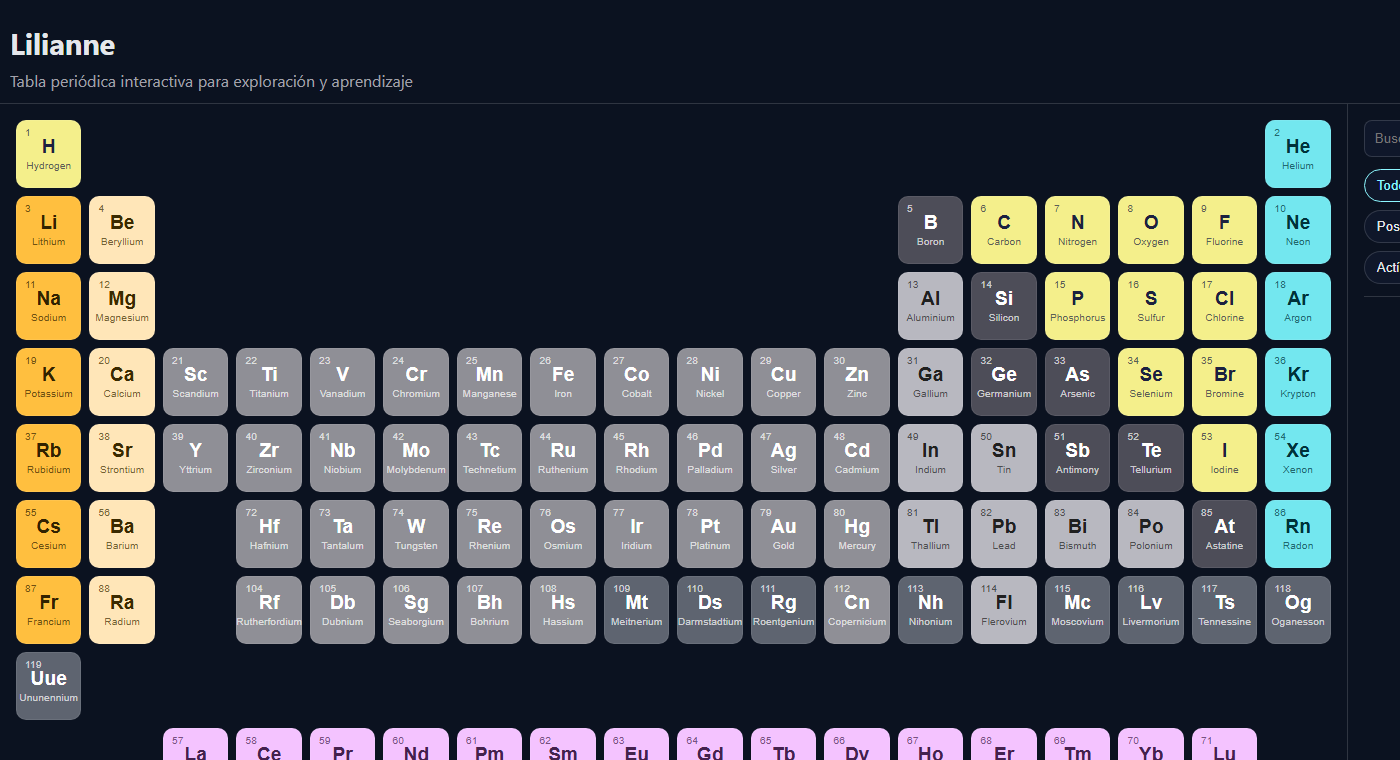
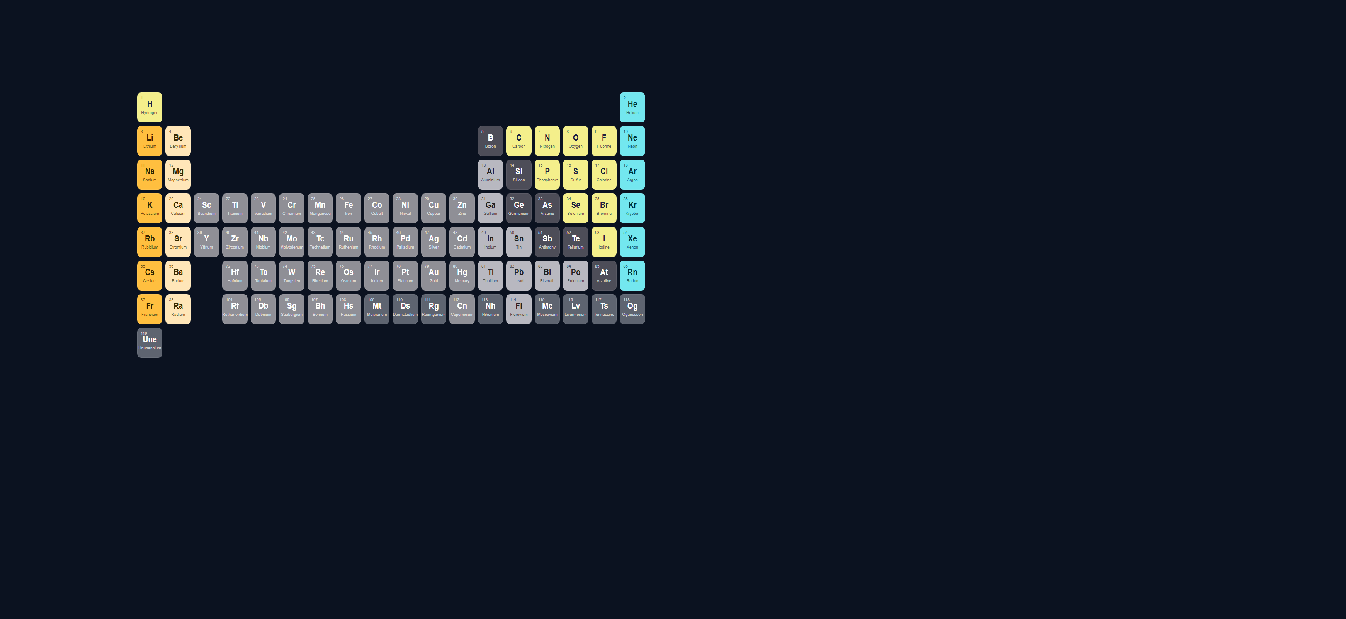
Modificación de Preview 1

diff --git a/assets/css/projects.css b/assets/css/projects.css
@@ -346,10 +346,10 @@ main.projects-shell-main{
   background: var(--panel);
 }
 
-.project-tile{
+/* .project-tile{
   position:relative;
   overflow:hidden;
-}
+} */
 
 .project-tile::before{
   content:"";